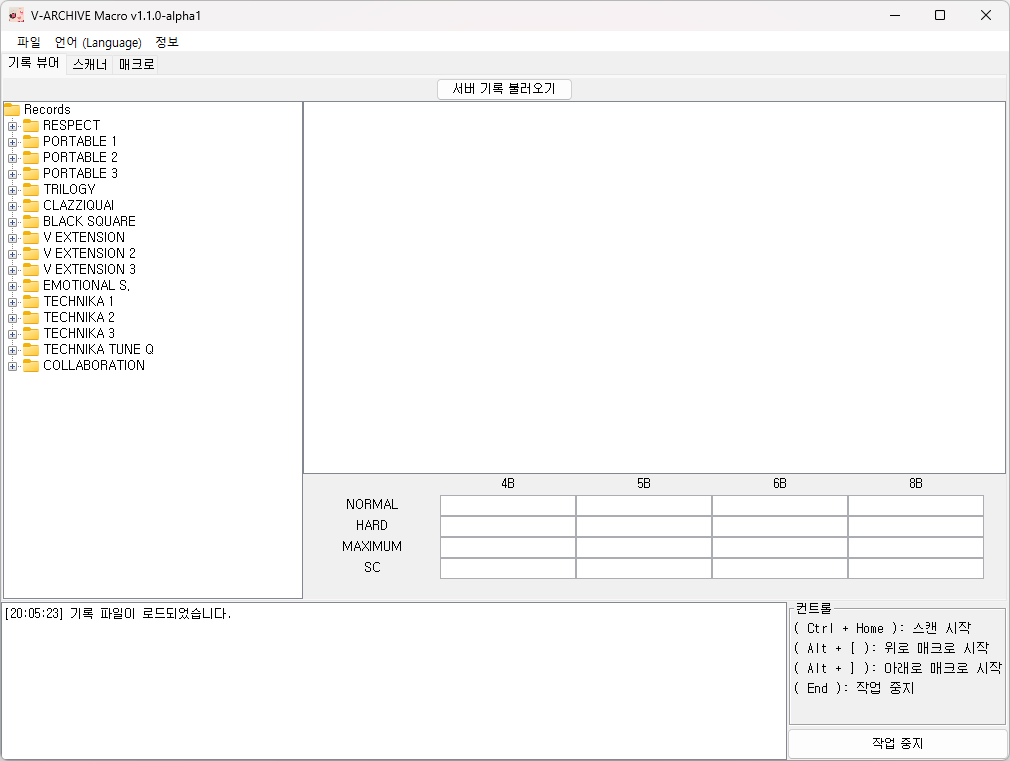
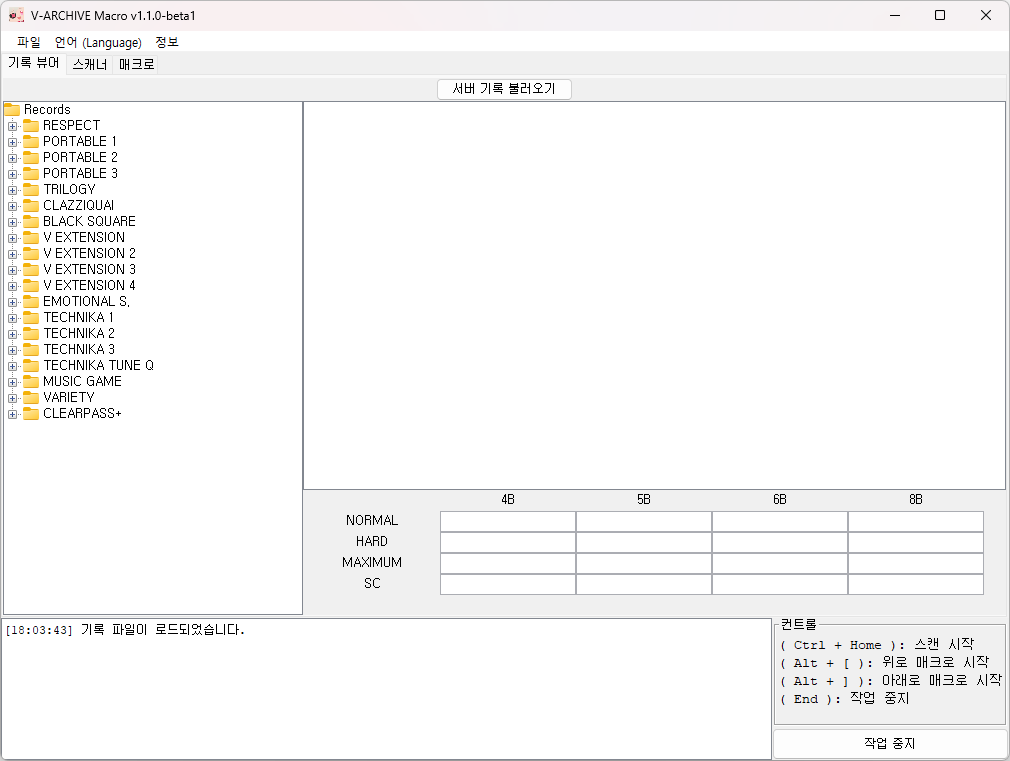
Update README

diff --git a/README.md b/README.md
@@ -51,35 +51,6 @@ JRE설치 환경에 따라 다음 세 가지 실행 파일을 제공합니다.
 
 - **기록 뷰어**: 컴퓨터에 저장된 기록을 보여줍니다.
 - **스캐너**: 인게임 콜렉션 메뉴를 통해 기록을 스캔합니다.
-
-  스캐너는 `alpha3` 버전 기준, 일부 곡을 인식하는 안전 모드와 곡을 인식하지 않는 비인식
-  모드가 있습니다.
-
-  - 안전 모드
-
-    안전 모드는 기본값으로 자동 설정되는 모드로, 캡처하는 곡의 제목을 인식하여 안전하게 기록을
-    업로드할 수 있는 모드입니다. 정상적으로 인식한 곡은 태스크 탭에서 녹색으로 표시됩니다.
-
-    현재 `alpha3` 버전 및 V Extension 4 DLC 업데이트 기준으로 576곡 중 60여개 곡을
-    제외한 약 89%의 곡이 인식 가능합니다. 인식 불가한 곡들은 제목에 한글 또는 특수문자가
-    포함되어 있거나 제목이 길어 스크롤이 되는 경우 등이 해당됩니다.
-
-    안전 모드로 인식이 불가한 곡은 공식 클라이언트를 통해 별도로 업로드가 필요합니다.
-
-  - 비인식 모드
-
-    비인식 모드는 `alpha2` 버전까지 지원하였던 스캐너의 기본 스캔 모드입니다.
-    곡명을 따로 인식하지 않고 사전에 정해진 순서대로 캡처 및 매칭하며 기록을 스캔합니다.
-    비인식 모드에서는 정상 캡처 여부와 관계 없이 캡처 밀림만 확인할 수 있도록 태스크 탭에서
-    DLC 탭 단위로 마지막 두 곡만 주황색으로 표시됩니다.
-
-    - **모든 곡 DLC 소유 및 전곡 순회를 마친 사용자들을 위한 스캔 모드입니다.**
-
-    - **곡명을 인식하지 않으므로 사용법에 따라 사용하지 않으면 기록이 잘못 업로드될
-    가능성이 높습니다.**
-
-    - **비인식 모드 사용을 위해서는 반드시 설명서를 정독해주세요.**
-
 - **매크로**: V-ARCHIVE 클라이언트의 캡처 자동화를 도와주는 매크로 기능입니다.
 
 ## 사용법
@@ -90,40 +61,47 @@ JRE설치 환경에 따라 다음 세 가지 실행 파일을 제공합니다.
   - 첫 실행 시에는 서버로부터 기록을 다운받아야 합니다.
 
 - 스캐너
-  - 안전 모드
-    1. 기록 뷰어에서 기록을 다운받지 않았다면 기록을 다운받습니다.
-    1. 설정에서 계정 파일(`account.txt`) 을 선택하고 필요 시 캐시 디렉토리를 따로 지정합니다.
-    1. 스캐너 탭에서 스캔하고자 하는 탭을 선택합니다.
-    1. 인게임 콜렉션 메뉴의 `ALL` 탭이 표시되도록 놓은 뒤 `Ctrl + Home`을 눌러 스캔합니다.
-      스캔은 도중에 `End` 키를 눌러 중단할 수 있습니다. 한 번 누르면 자동으로 `ALL` 탭으로
-      되돌아가며, 다시 `End` 키를 누르면 모든 행동을 중지합니다.
-    1. 스캔이 완료되면 자동으로 `ALL` 탭으로 돌아가고 캡처한 사진 분석 후 결과 탭에 분석
-      결과가 표시됩니다.
-    1. 태스크 및 결과 탭에서 스캔 결과를 확인 및 업로드할 기록 데이터를 선택하여 업로드합니다.
+  1. 기록 뷰어에서 기록을 다운받지 않았다면 기록을 다운받습니다.
+  1. 설정에서 계정 파일(`account.txt`) 을 선택하고 필요 시 캐시 디렉토리를 따로 지정합니다.
+  1. 스캐너 탭에서 스캔하고자 하는 탭을 선택합니다.
+  1. 인게임 콜렉션 메뉴의 `ALL` 탭이 표시되도록 놓은 뒤 `Ctrl + Home`을 눌러 스캔합니다.
+      스캔은 도중에 `End` 키를 눌러 중단할 수 있습니다. 한 번 누르면 자동으로 `ALL`
+      탭으로 되돌아가며, 다시 `End` 키를 누르면 모든 행동을 중지합니다.
+  1. 스캔이 완료되면 자동으로 `ALL` 탭으로 돌아가 정지합니다.
+  1. 태스크 탭에서 스캐너가 정상적으로 인식합니다.
+      - 인식한 제목과 정확히 일치하는 곡이 존재하여 찾아진 곡들은 녹색으로 표시되며 자동으로
+        선택됩니다.
+      - 정확하지 않아 확인이 필요한 곡들은 노란색으로 표시됩니다. 행을 선택 후 엔터 키
+        또는 좌측 하단의 `보기`를 누르면 캡처한 사진이 표시되며, 사진의 제목과 인식한 곡이
+        같은지 확인 후 같다면 좌측 선택 체크박스에 체크를, 그렇지 않다면 체크를 해제해주세요.
+        인식한 곡의 정보는 `제목`, `작곡가`, `DLC`, `탭` 행에 표시됩니다.
+      - 주요 행의 의미는 다음과 같습니다.
+        - 정확도: 인식한 제목과 찾아진 곡의 제목의 유사도를 보여줍니다.
+        - 차이: 인식한 제목과 찾아진 곡의 제목의 다른 글자 수를 보여줍니다.
+        - 스캔된 제목: 스캐너가 인식한 곡의 제목을 표시합니다.
+        - 제목, 작곡가, DLC, 탭: 스캔된 제목과 가장 유사한 곡으로 찾아진 곡의 제목, 작곡가,
+          DLC, 탭 정보를 표시합니다.
+  1. 확인이 완료되면 우측 하단의 분석 버튼을 눌러 분석을 시작합니다.
+  1. 분석이 완료되면 결과 탭에서 스캔 결과를 확인 및 업로드할 기록 데이터를 선택하여
+      업로드합니다.
 
-  - 비인식 모드
-    - 사전 준비: **모든 곡 DLC 소유 및 전곡 순회**
-    - 주의 사항: **사용 조건을 갖추었더라도 렉 또는 키 입력 무시가 발생하면 기록이 잘못
-      올라갈 가능성이 있으므로 업로드 전 항상 확인이 필요합니다.**
-
-    1. 이전 과정은 안전 모드의 1~2와 동일
-    1. ***예상 곡 목록* 창을 열어 인게임에서 출력되는 곡의 순서가 동일한지 확인합니다.
-      (매우 중요)**
-    1. 출력 순서가 동일한 탭은 스캔이 가능한 탭이므로 선택, 그렇지 않다면 선택을 해제합니다.
-    1. 이후 과정은 안전 모드의 4~6과 동일
-
-  - 권장 및 문제 발생 시 조치 사항
+  - **사용 시 주의사항**
+    - 스캔은 반드시 `ALL` 탭에서 시작해야 합니다.
     - 스캔이 정상적으로 완료되었다면 반드시 `ALL` 탭으로 다시 올아옵니다. `ALL` 탭으로
-      돌아오지 않았다면 다시 스캔하는 것을 권장합니다.
-    - 저사양 컴퓨터이거나 고부하 작업을 진행중인 경우에 스캐너를 사용하는 경우 렉이 발생하여
-      키 입력이 무시되어 스캔이 정상적으로 이루어지지 않을 가능성이 높습니다. 하단의 설정
-      문단을 참조하여 캡처 딜레이와 키 입력 시간을 늘리고 한 탭씩 스캔해주세요.
+      돌아오지 않았다면 다시 스캔해주세요.
+    - 저사양 컴퓨터이거나 고부하 작업을 진행중인 경우에 스캐너를 사용하는 경우 렉이
+      발생하여 키 입력이 무시되어 스캔이 정상적으로 이루어지지 않을 가능성이 높습니다.
+      하단의 설정 문단을 참조하여 캡처 딜레이와 키 입력 시간을 늘리고 한 탭씩 스캔해주세요.
 
 - 매크로
   1. 인게임 프리스타일 모드에서 난이도 순서로 정렬합니다.
   1. `Alt + [` 또는 `Alt + ]`을 눌러 매크로를 실행합니다.
 
-  - 사용 시 V-ARCHIVE 클라이언트가 실행되어 있어야 합니다.
+  - **사용 시 주의사항**
+    - 사용 시 V-ARCHIVE 클라이언트가 실행되어 있어야 합니다.
+    - 매크로 기능은 단순히 위 또는 아래로만 이동하여 곡만 변경하며, 패턴은 변경하지 않습니다.
+      난이도 순서 정렬하지 않고 실행할 경우 노말 패턴만 인식되니 반드시 난이도 순서로
+      정렬 후 사용해주세요.
 
 ### 단축키
 
@@ -134,59 +112,22 @@ JRE설치 환경에 따라 다음 세 가지 실행 파일을 제공합니다.
 
 ### 제한 및 주의사항
 
-현재 v1.1.0은 개발중인 알파 버전으로 다음과 같은 제한 및 주의사항이 존재합니다.
+현재 v1.1.0은 개발중인 버전으로 다음과 같은 제한 및 주의사항이 존재합니다.
 
-1. 스캐너 지원 해상도
+1. 스캐너
+    1. 스캐너 지원 해상도
+        스캐너는 빠른 스캔을 위해 매크로 기능과 다르게 자체 캡처 기능을 사용하며, 현재 개발
+        버전 기준으로는 아직 **창모드 스캔을 지원하지 않습니다.** 또한 다중 모니터
+        환경에서의 스캔 기능은 지원되지 않아 현재 **모니터 1에 한해서만 캡처가
+        가능합니다.**
 
-    스캐너는 빠른 스캔을 위해 매크로 기능과 다르게 자체 캡처 기능을 사용하며, 현재 개발 버전
-    기준으로는 아직 **창모드 스캔을 지원하지 않습니다.** 또한 다중 모니터 환경에서의 스캔
-    기능은 완벽히 지원되지 않아 현재 **모니터 1에 한해서만 캡처가 가능합니다.**
+        현재 지원 해상도는 다음과 같습니다.
+        - FHD (1920 x 1080), 전체화면 / 보더리스 창모드
 
-    현재 지원 해상도는 다음과 같습니다.
-    - FHD (1920 x 1080), 전체화면 / 보더리스 창모드
+    1. 스캐너 사용 시 인게임 언어 설정이 `한국어 (Korean)`로 설정되어 있어야 합니다.
+        곡명 인식은 한국어 기준으로 되어있어 한국어로 설정해야 정상적으로 스캔이 가능합니다.
 
-1. **비인식 모드 주의사항**
-
-    비인식 모드는 `alpha2` 버전까지 지원하던 스캔 모드로, 캡처한 곡이 어떠한 곡인지
-    직접적으로 인식하지 않고 사용자가 선택한 탭을 우선 캡처 후 캡처한 순서대로 프로그램
-    내에 사전에 정의한 곡 리스트와 1:1로 대응시키도록 되어있습니다.
-
-    사전에 정의한 곡 리스트는 모든 DLC의 곡을 포함하므로 사용을 위해서는 모든 DLC를
-    소유해야 합니다.
-
-    또한 곡 대응에 있어 인게임 콜렉션 메뉴에서 곡의 표시 여부는 플레이 기록에 따라
-    달라집니다. DLC를 소유하였더라도 플레이 기록이 없으면 콜렉션 메뉴에 뜨지 않고, DLC를
-    소유하지 않았더라도 온라인 모드 등의 다른 방법을 통해 플레이한 기록이 있다면 콜렉션
-    메뉴에 표시됩니다.
-
-    정확한 스캔을 위해 스캐너 기능을 사용하기 전에 스캔할 DLC 탭을 선택하고 *예상 곡 목록*
-    기능으로 콜렉션 메뉴에 실제로 표시되는 곡을 비교 확인할 필요가 있습니다.
-    비교하여 모든 곡이 프로그램에서 제시하는 순서와 같이 표시된다면 해당 탭은 스캔이 가능한
-    탭이며 그렇지 않다면 스캔이 불가능한 탭입니다.
-
-    스캔이 완료되면 스캐너의 태스크 탭에 스캔 결과가 표시됩니다. 이때, 안전 모드와 달리
-    스캔한 탭의 마지막 두 곡만 주황색으로 표시됩니다. 이는 전곡 순회가 되지 않아 일부 곡이
-    누락된 상태에서 스캔하였을 경우 곡의 캡처가 밀리게 되는데, 이 밀림 현상은 탭 단위로만
-    발생하므로 이를 빠르게 확인할 수 있도록 도와주는 강조 기능입니다.
-
-    캡처 도중 렉 또는 키 입력이 무시되지 않았다면 태스크 탭에 강조된 모든 태스크를 확인하여
-    태스크에 표시되는 제목과 실제 캡처된 사진의 제목이 같아야지만 해당 탭을 정상적으로
-    캡처한 것으로 볼 수 있습니다. 그렇지 않다면 해당 탭은 캡처가 밀린 것이므로 업로드를 하면
-    안됩니다.
-
-    **또한 모든 사용 조건을 만족하여 정상적으로 캡처를 완료 하였더라도 게임의 화면 업데이트
-    지연 또는 키 입력 무시와 같은 문제가 매우 짧은 순간에 발생하면 곡 매칭이 밀려 잘못
-    기록이 업로드될 수 있습니다. 때문에 업로드 전 항상 주의가 필요합니다.**
-
-1. 스캐너 사용 시 인게임 언어 설정이 `한국어 (Korean)`로 설정되어 있어야 합니다.
-
-    곡명 인식은 한국어 기준으로 되어있어 한국어로 설정해야 정상적으로 스캔이 가능합니다.
-
-    비인식 모드의 경우 1:1 곡 대응에 사용되는 사전 정의 리스트가 한국어 곡명으로 작성 및
-    정렬되어 있어 반드시 한국어로 설정해야 합니다. 게임 언어가 다른 언어로 설정되어 있는 경우
-    콜렉션 리스트의 곡 표시 순서가 달라지므로 스캐너 기능을 사용해서는 안됩니다.
-
-1. 캡처 중 키보드 및 마우스를 조작하지 마세요. 캡처가 잘못될 가능성이 있습니다.
+    1. 캡처 중 키보드 및 마우스를 조작하지 마세요. 캡처가 잘못될 가능성이 있습니다.
 
 ## 설정
 
@@ -208,8 +149,6 @@ JRE설치 환경에 따라 다음 세 가지 실행 파일을 제공합니다.
     서버의 부하를 낮추기 위해 사용하는 설정값입니다.
   - 캡처 딜레이: 공통 항목 참조.
   - 키 입력 지속시간: 공통 항목 참조.
-  - **안전 모드 (위험)**: 안전 모드를 끄고 켤 수 있는 옵션입니다. 이 옵션은 설정값이
-    저장되지 않습니다.
 
 - 매크로
   - 분석 키: V-ARCHIVE 클라이언트에서 분석하기 위해 사용할 키를 지정합니다.
@@ -234,17 +173,32 @@ JRE설치 환경에 따라 다음 세 가지 실행 파일을 제공합니다.
     지원되지 않는다는 메시지의 경우 이 포커스가 게임 윈도우가 아닌 다른 윈도우에 맞추어졌을
     수 있습니다. 그림판을 켜고 붙여넣기를 하면 마지막으로 캡처된 화면을 볼 수 있습니다.
 
+  - *인벤토리 창(F11) 이 켜집니다.*
+
+    분석 키로 `Alt + F11`이 지정되어 있어 발생하는 문제일 가능성이 있습니다. 매크로
+    설정에서 분석 키를 다른 것으로 변경해보세요.
+
 - 스캐너
-  - *비인식 모드에서 스캔한 곡을 다른 곡으로 인식 또는 곡이 중복되어 스캔됩니다.*
+  - *Alone은 한 개 밖에 뜨지 않고 중복됨이라 뜹니다.*
 
-    비인식 모드는 곡을 직접적으로 인식하지 않고 오로지 사전에 정의된 순서대로만 캡처하고
-    이를 매칭하도록 되어있어 발생하는 문제입니다. 사전에 정의된 순서는 모든 DLC의 곡을
-    포함하며, 모든 DLC를 소유하더라도 플레이 기록이 없으면 곡이 콜렉션 메뉴에 뜨지 않아
-    캡처가 밀리게 됩니다. 플레이 기록이 없는 곡은 최소 1회씩 플레이하여 콜렉션 메뉴에
-    표시될 수 있도록 해주세요.
+    Alone 곡은 같은 제목의 곡이 두 개가 존재하며, 동시에 같은 RESPECT 탭에 있어
+    제목만으로는 구분이 불가하여 해당 문제가 발생합니다. 제목과 탭이 동시에 중복되는 곡은
+    현재는 인식이 불가합니다.
 
-    프로그램의 *예상 곡 목록* 기능을 이용하여 비교하면 어떤 곡이 누락되었는 확인할 수
-    있습니다. DLC 탭 단위로 스캔을 끊어 진행하므로 최소 탭 단위로는 일치하도록 맞추어주세요.
+  - *스캔한 제목 중에 정확한 곡명이 존재하는데 너무나도 다른 곡으로 인식합니다.*
+
+    현재 베타1 버전에서 스캐너는 모든 곡을 탭 단위로 스캔하며 각각의 탭에 대해서 스캔할 때
+    해당 탭에 존재할 수 있는 곡들에 대해서만 가장 일치하는 곡을 찾도록 되어있습니다.
+
+    그런데 탭을 넘기라는 키 명령을 스캐너가 주었지만 렉 등으로 인해 실제로는 탭이 넘어가지
+    않았다면 찾는 곡 목록이 바뀌어 실제로 제목은 인식하여도 완전히 다른 곡을 찾게 되어
+    이러한 문제가 발생하게 됩니다.
+
+    저사양 컴퓨터에서 테스트 중에 렉으로 인해 탭이 넘어가지 않아 `RESPECT` 탭의 `WHY`가
+    바로 다음 `PORTABLE 1` 탭에 존재하는 `Can We Talk`으로 인식된 적이 있습니다.
+
+    이 문제는 키 입력 시간을 넉넉히 주고 반드시 마지막 `ALL` 탭으로 돌아오는지 확인하는
+    것으로 해결이 가능합니다.
 
   - *FHD (1920 x 1080) 해상도로 맞추었는데도 `not supported resolution: NxM`
   과 같은 메시지가 뜨며 스캔이 안됩니다.*
@@ -259,6 +213,10 @@ JRE설치 환경에 따라 다음 세 가지 실행 파일을 제공합니다.
     | 175 | 1097 x 617 |
 
 ## 업데이트 내역
+
+- v1.1.0-beta1
+  - 모든 곡들을 제목을 이용하여 인식하도록 스캐너 개선
+  - 시즌 10과 Maple Story DLC 대응 업데이트
 
 - v1.1.0-alpha3
   - V Extension 4 DLC 대응 업데이트
